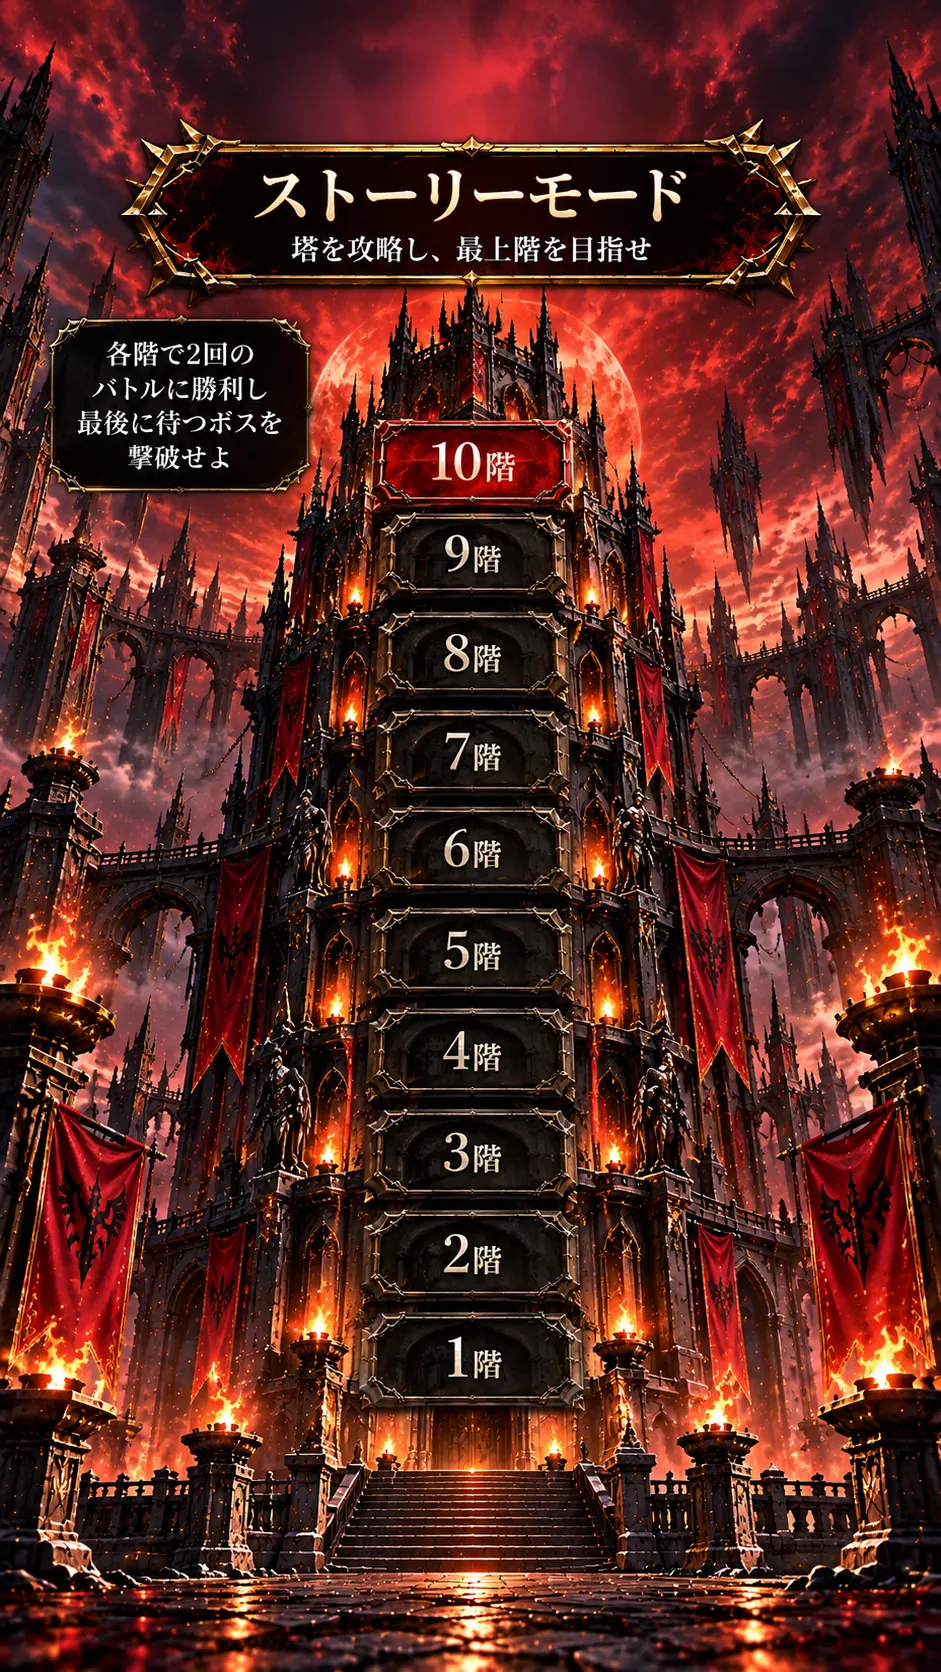
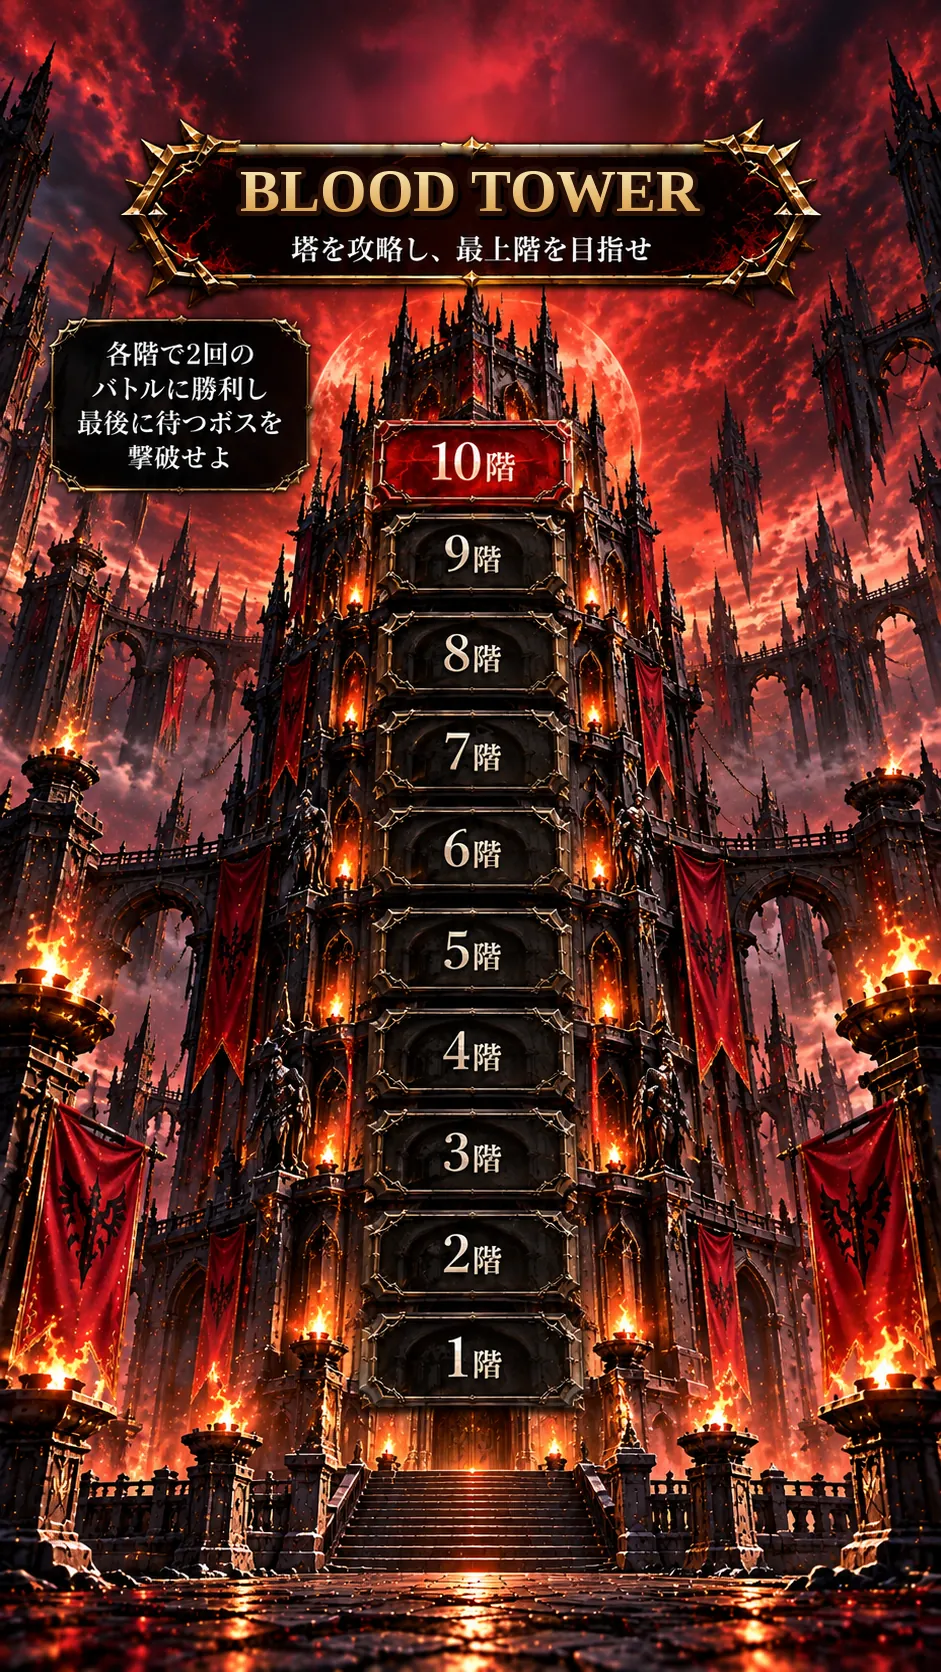
MYTHCLASH: タワー・階の画面の絵の「ストーリーモード」を「BLOOD TOWER」に(企画者)
Claude-Session: https://claude.ai/code/session_01MXithgTc5umkveoyZShZHQ

Changed region(s): [[0.2465, 0.0622, 0.7396, 0.1555]]

diff --git a/design/mythclash/retitle.py b/design/mythclash/retitle.py
@@ -1,0 +1,52 @@
+"""
+絵の中の「ストーリーモード」の文字を消して「BLOOD TOWER」と書く(企画者 2026-11-01「ストーリーモードの文字を消して、Blood Towerに変更して」)。
+make_tower.py・make_floor.py から使う。元の絵(tower.png・floor.png)は変えない。
+"""
+import cv2
+import numpy as np
+from PIL import Image, ImageDraw, ImageFont
+
+FONT = '/usr/share/fonts/truetype/liberation/LiberationSerif-Bold.ttf'
+
+
+def erase(img: np.ndarray, box: tuple[int, int, int, int], bright: int) -> np.ndarray:
+    """box(x0, y0, x1, y1)の中の明るい文字(とそのふち)を、まわりの色でうめる"""
+    x0, y0, x1, y1 = box
+    mask = np.zeros(img.shape[:2], np.uint8)
+    mask[y0:y1, x0:x1] = (img[y0:y1, x0:x1].mean(axis=2) > bright).astype(np.uint8) * 255
+    mask = cv2.dilate(mask, np.ones((3, 3), np.uint8), iterations=4)
+    return cv2.cvtColor(cv2.inpaint(cv2.cvtColor(img, cv2.COLOR_RGB2BGR), mask, 9, cv2.INPAINT_TELEA), cv2.COLOR_BGR2RGB)
+
+
+def write(img: np.ndarray, text: str, cx: int, cy: int, size: int, gold: bool) -> np.ndarray:
+    """まん中(cx, cy)に文字。gold: 金色のグラデーション(タワーの題)・そうでなければ白"""
+    im = Image.fromarray(img)
+    font = ImageFont.truetype(FONT, size)
+    d = ImageDraw.Draw(im)
+    # 暗いふちと影
+    d.text((cx + 3, cy + 4), text, font=font, anchor='mm', fill=(0, 0, 0), stroke_width=max(3, size // 12), stroke_fill=(0, 0, 0))
+    d.text((cx, cy), text, font=font, anchor='mm', fill=(40, 16, 8), stroke_width=max(3, size // 12), stroke_fill=(40, 16, 8))
+    if not gold:
+        d.text((cx, cy), text, font=font, anchor='mm', fill=(255, 250, 240))
+        return np.array(im)
+    # 金色: 文字の形をマスクにして、上から下へ明るい金 → 濃い金
+    w, h = im.size
+    m = Image.new('L', (w, h), 0)
+    ImageDraw.Draw(m).text((cx, cy), text, font=font, anchor='mm', fill=255)
+    grad = np.zeros((h, w, 3), np.uint8)
+    top, bot = cy - size // 2, cy + size // 2
+    for y in range(h):
+        k = min(1, max(0, (y - top) / max(1, bot - top)))
+        grad[y] = (np.array([255, 244, 200]) * (1 - k) + np.array([214, 150, 60]) * k).astype(np.uint8)
+    im.paste(Image.fromarray(grad), (0, 0), m)
+    return np.array(im)
+
+
+def tower(img: np.ndarray) -> np.ndarray:
+    img = erase(img, (240, 150, 700, 226), 110)
+    return write(img, 'BLOOD TOWER', 470, 190, 60, True)
+
+
+def floor(img: np.ndarray) -> np.ndarray:
+    img = erase(img, (112, 54, 340, 100), 120)
+    return write(img, 'BLOOD TOWER', 226, 78, 34, False)

diff --git a/design/mythclash/make_floor.py b/design/mythclash/make_floor.py
@@ -16,6 +16,11 @@ ROOT = os.path.dirname(os.path.dirname(HERE))
 OUT = os.path.join(ROOT, 'public/assets/mythclash')
 
 img = np.array(Image.open(os.path.join(HERE, 'floor.png')).convert('RGB'))
+# 絵の「ストーリーモード」の文字を「BLOOD TOWER」に(企画者 2026-11-01)
+import sys
+sys.path.insert(0, HERE)
+import retitle
+img = retitle.floor(img)
 # 「敵チーム」の文字を消す(相手の名前「○○のチーム」を ゲームの中で書く。企画者 2026-10-27: 戦う前に どんな相手かわかるように)
 x0, y0, x1, y1 = 400, 432, 546, 478
 mask = np.zeros(img.shape[:2], np.uint8)

diff --git a/design/mythclash/make_tower.py b/design/mythclash/make_tower.py
@@ -32,6 +32,11 @@ PLATES = {
 }
 
 img = np.array(Image.open(os.path.join(HERE, 'tower.png')).convert('RGB'))
+# 絵の「ストーリーモード」の文字を「BLOOD TOWER」に(企画者 2026-11-01)
+import sys
+sys.path.insert(0, HERE)
+import retitle
+img = retitle.tower(img)
 Image.fromarray(img).save(os.path.join(OUT, 'tower.webp'), 'WEBP', quality=80, method=6)
 
 # 鍵マーク: 前の絵(unused/)の5階の鍵。明るさを そのまま不透明度にする
